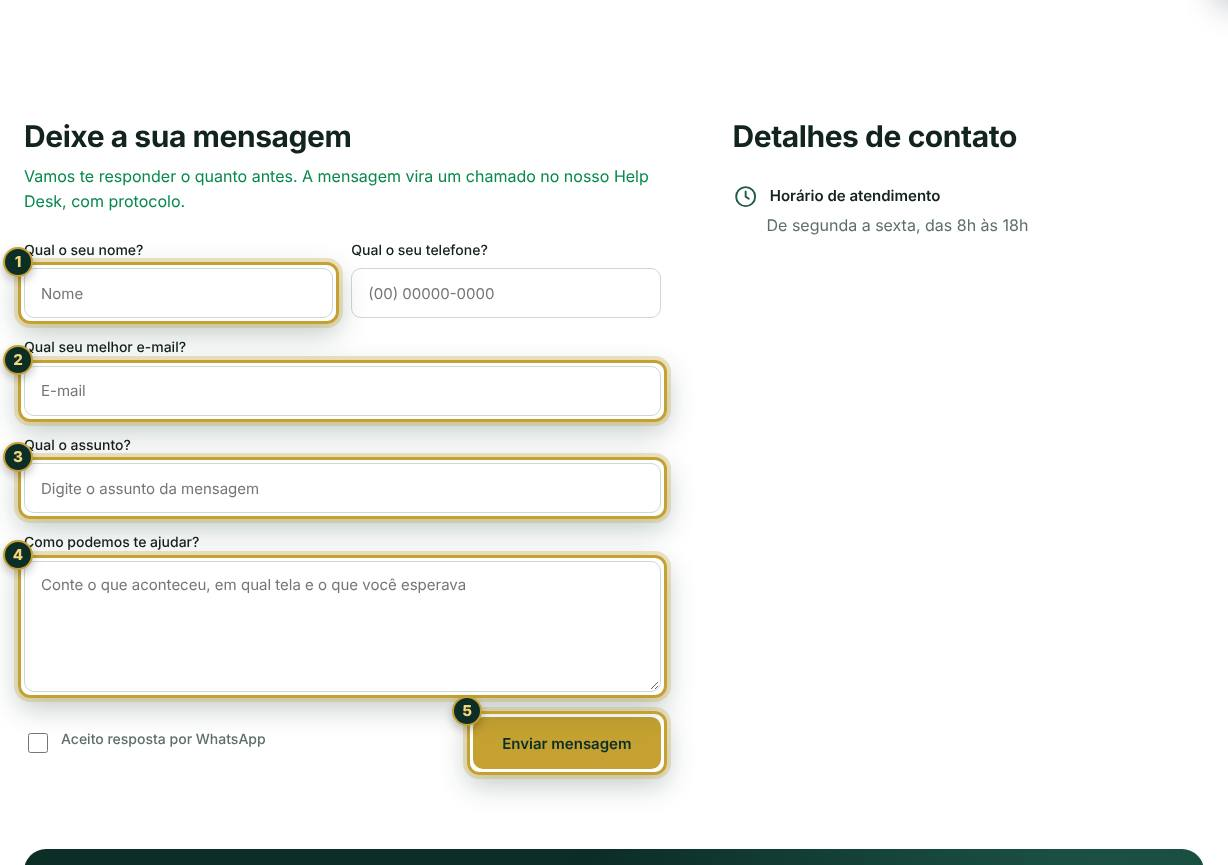
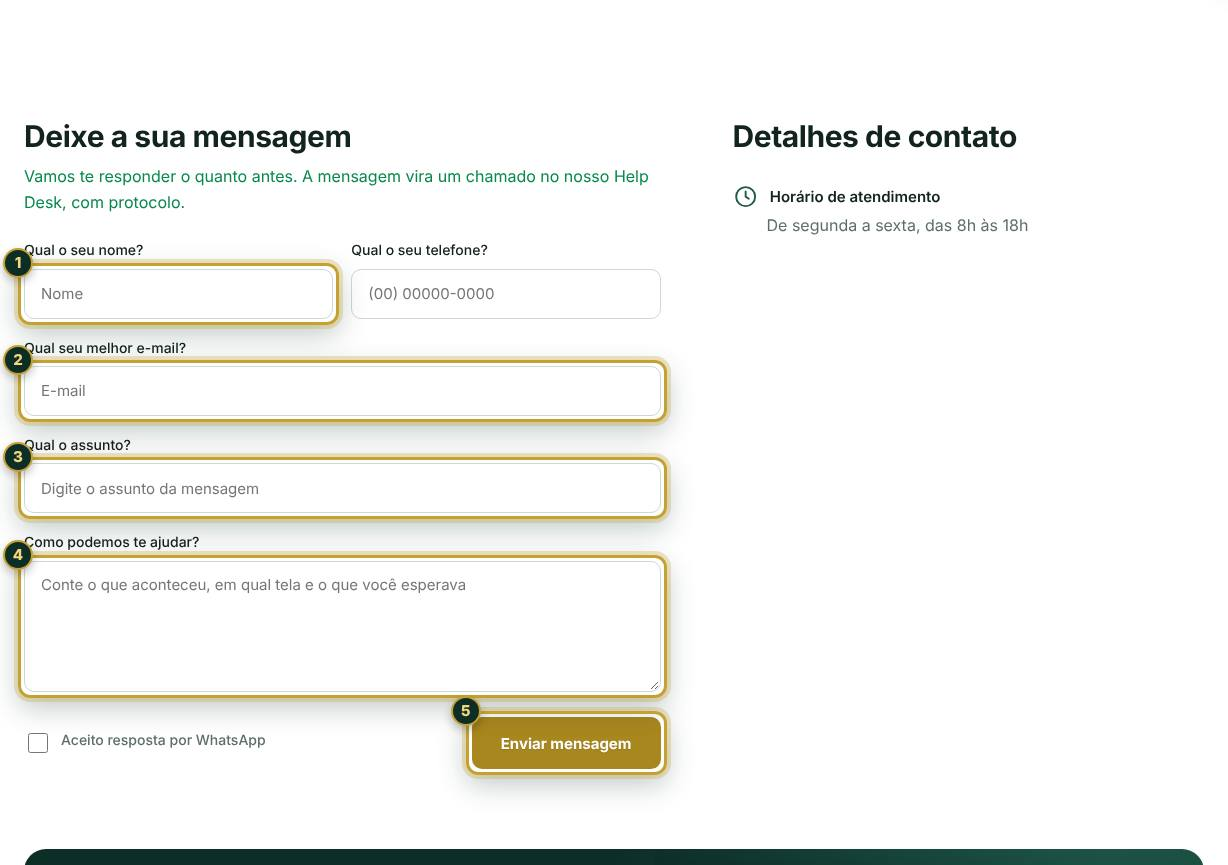
feat(ajuda): ajustes visuais da Central de Ajuda pedidos pelo Djalma (ADR 0141)
- Topo diz que é a central de atendimento da Connect Condomínios.
- Botões dourados com texto branco (dourado mais forte para dar contraste).
- Ícones dos canais sobre o verde claro do fundo; favicon próprio com fundo verde claro.
- "Já é cliente da Connect Condomínios?" e banner com metade da altura, recortando o print.
- Rodapé com links para o site, o app do morador e o Connect ERP.
- Prints da página de ajuda refeitos e print que faltava de Lançamentos patrimoniais.

Claude-Session: https://claude.ai/code/session_0132w422j6DE7V5S8vYYzcqs

diff --git a/container/web/support/v1/assets/support.css b/container/web/support/v1/assets/support.css
@@ -43,8 +43,8 @@ img { max-width: 100%; height: auto; }
 .hc-btn { display: inline-flex; align-items: center; justify-content: center; gap: 8px; min-height: 44px; padding: 0 20px; border: 1px solid transparent; border-radius: 10px; font: 600 15px/1 Inter, system-ui, sans-serif; text-decoration: none; cursor: pointer; transition: background .15s, transform .15s, box-shadow .15s; }
 .hc-btn--dark { background: var(--hc-green); color: #fff; }
 .hc-btn--dark:hover { background: var(--hc-green-2); }
-.hc-btn--gold { background: var(--hc-gold); color: var(--hc-green); }
-.hc-btn--gold:hover { background: #d4b245; box-shadow: 0 8px 20px rgba(197, 161, 49, .35); }
+.hc-btn--gold { background: var(--hc-gold-strong); color: #fff; font-weight: 700; text-shadow: 0 1px 1px rgba(0, 0, 0, .12); }
+.hc-btn--gold:hover { background: var(--hc-gold); box-shadow: 0 8px 20px rgba(197, 161, 49, .35); }
 .hc-btn--lg { min-height: 52px; padding: 0 28px; }
 
 /* Topo */
@@ -78,7 +78,7 @@ img { max-width: 100%; height: auto; }
 .hc-channels { position: relative; z-index: 2; display: grid; grid-template-columns: repeat(auto-fit, minmax(210px, 1fr)); gap: 20px; margin-top: -84px; }
 .hc-channel { display: flex; flex-direction: column; align-items: flex-start; gap: 6px; padding: 26px 24px; background: #fff; border: 1px solid var(--hc-line); border-radius: var(--hc-radius); box-shadow: var(--hc-shadow); text-align: left; text-decoration: none; color: inherit; font: inherit; cursor: pointer; transition: transform .2s, box-shadow .2s, border-color .2s; }
 .hc-channel:hover { transform: translateY(-4px); box-shadow: var(--hc-shadow-lift); border-color: var(--hc-gold); }
-.hc-channel i { display: grid; place-items: center; width: 46px; height: 46px; margin-bottom: 18px; border-radius: 12px; background: var(--hc-gold-soft); color: var(--hc-gold-strong); font-size: 25px; font-style: normal; }
+.hc-channel i { display: grid; place-items: center; width: 46px; height: 46px; margin-bottom: 18px; border-radius: 12px; background: var(--hc-mint); color: var(--hc-gold-strong); font-size: 25px; font-style: normal; }
 .hc-channel strong { font-size: 18px; font-weight: 600; color: var(--hc-green); }
 .hc-channel span { font-size: 14px; color: var(--hc-muted); }
 
@@ -133,13 +133,13 @@ img { max-width: 100%; height: auto; }
 .hc-whats .hc-icon { font-size: 24px; color: var(--hc-brand); }
 
 /* Chamada para o sistema */
-.hc-cta { position: relative; overflow: hidden; display: grid; grid-template-columns: minmax(0, .9fr) minmax(0, 1.1fr); align-items: center; gap: 32px; margin: 8px 0 88px; padding: 48px 0 0 56px; border-radius: 22px; background: radial-gradient(circle at 92% 20%, var(--hc-green-3), transparent 45%), var(--hc-green); color: #fff; }
-.hc-cta__text { padding-bottom: 48px; }
+.hc-cta { position: relative; overflow: hidden; display: grid; grid-template-columns: minmax(0, 1fr) minmax(0, 1fr); align-items: center; gap: 32px; margin: 8px 0 72px; padding: 0 0 0 48px; min-height: 0; height: 260px; border-radius: 22px; background: radial-gradient(circle at 92% 20%, var(--hc-green-3), transparent 45%), var(--hc-green); color: #fff; }
+.hc-cta__text { padding: 28px 0; }
 .hc-cta small { color: var(--hc-gold); }
-.hc-cta h2 { margin: 6px 0 8px; font-size: clamp(26px, 3.4vw, 36px); letter-spacing: -.02em; }
-.hc-cta p { margin: 0 0 24px; color: #c8dbd2; }
-.hc-cta__shot { align-self: end; margin-right: -2px; }
-.hc-cta__shot img { display: block; border-radius: 14px 0 0 0; box-shadow: -18px -10px 40px rgba(0, 0, 0, .25); }
+.hc-cta h2 { margin: 4px 0 6px; font-size: clamp(22px, 2.6vw, 28px); letter-spacing: -.02em; }
+.hc-cta p { margin: 0 0 18px; color: #c8dbd2; font-size: 15px; }
+.hc-cta__shot { align-self: stretch; position: relative; margin-right: -2px; padding-top: 36px; overflow: hidden; }
+.hc-cta__shot img { display: block; width: 100%; height: auto; border-radius: 14px 0 0 0; box-shadow: -18px -10px 40px rgba(0, 0, 0, .25); }
 
 /* Página de assunto, busca e artigo */
 .hc-page { padding: 34px 0 72px; }
@@ -254,7 +254,12 @@ img { max-width: 100%; height: auto; }
 .hc-footer__arcs { display: block; width: 260px; color: var(--hc-gold); opacity: .8; }
 .hc-footer__bottom { display: flex; flex-wrap: wrap; align-items: center; gap: 18px 28px; margin-top: -2px; padding-top: 24px; border-top: 1px solid var(--hc-gold); font-size: 13px; }
 .hc-footer__bottom img { width: 120px; height: 36px; object-fit: contain; object-position: left; display: block; }
-.hc-footer__bottom nav { display: flex; gap: 18px; margin-right: auto; }
+.hc-footer__bottom .hc-footer__links { display: flex; flex-wrap: wrap; gap: 10px 26px; margin-left: auto; font-size: 14px; font-weight: 500; }
+.hc-footer__links a { display: inline-flex; align-items: center; gap: 8px; color: #fff; }
+.hc-footer__links .hc-icon { color: var(--hc-gold); font-size: 18px; }
+.hc-footer__links a:hover { color: var(--hc-gold); }
+.hc-footer__legal { display: flex; flex-wrap: wrap; align-items: center; gap: 12px 28px; margin-top: 18px; font-size: 13px; }
+.hc-footer__legal nav { display: flex; gap: 18px; margin-right: auto; }
 .hc-footer a { text-decoration: none; }
 .hc-footer a:hover { color: #fff; }
 .hc-totop { display: inline-flex; align-items: center; gap: 8px; }
@@ -265,8 +270,8 @@ img { max-width: 100%; height: auto; }
   .hc-top__nav { display: none; }
   .hc-top__bar { justify-content: space-between; }
   .hc-contact { grid-template-columns: 1fr; gap: 48px; }
-  .hc-cta { grid-template-columns: 1fr; padding: 40px 28px 0; }
-  .hc-cta__shot { margin-right: -28px; }
+  .hc-cta { grid-template-columns: 1fr; height: auto; padding: 28px 28px 0; gap: 0; }
+  .hc-cta__shot { margin-right: -28px; padding-top: 0; max-height: 150px; }
   .hc-layout { grid-template-columns: 1fr; }
   .hc-side { position: static; padding-left: 0; border-left: 0; }
   .hc-cover { grid-template-columns: 1fr; }

diff --git a/container/web/support/v1/layouts/theme.php b/container/web/support/v1/layouts/theme.php
@@ -8,6 +8,7 @@ $contact = \Source\Services\Help\SupportContact::data();
 $logo = url('/container/web/default/v1/assets/images/logo-connect-condominios.svg');
 $logoLight = url('/container/web/default/v1/assets/svg/logo-connect-footer.svg');
 $cssFile = __DIR__ . '/../assets/support.css';
+$residentsUrl = \Source\Services\Environments::url('residents', '/app');
 ?>
 <!doctype html>
 <html lang="pt-BR">
@@ -15,7 +16,9 @@ $cssFile = __DIR__ . '/../assets/support.css';
     <meta charset="utf-8">
     <meta name="viewport" content="width=device-width,initial-scale=1">
     <?= $head ?>
-    <link rel="icon" href="<?= site_favicon_url() ?>">
+    <link rel="icon" type="image/svg+xml" href="<?= url('/container/web/support/v1/assets/images/favicon-ajuda.svg') ?>">
+    <link rel="icon" type="image/png" sizes="96x96" href="<?= url('/container/web/support/v1/assets/images/favicon-ajuda.png') ?>">
+    <link rel="apple-touch-icon" href="<?= url('/container/web/support/v1/assets/images/favicon-ajuda.png') ?>">
     <link rel="preconnect" href="https://fonts.googleapis.com">
     <link rel="preconnect" href="https://fonts.gstatic.com" crossorigin>
     <link rel="stylesheet" href="https://fonts.googleapis.com/css2?family=Inter:wght@400;500;600;700;800&display=swap">
@@ -69,6 +72,13 @@ $cssFile = __DIR__ . '/../assets/support.css';
         <svg class="hc-footer__arcs" viewBox="0 0 260 60" aria-hidden="true"><path d="M2 58V40a28 28 0 0 1 56 0M58 58V30a30 30 0 0 1 60 0v28M118 58a32 32 0 0 1 64 0M182 58a36 36 0 0 1 72-4" fill="none" stroke="currentColor" stroke-width="2"/></svg>
         <div class="hc-footer__bottom">
             <a href="<?= url('/') ?>"><img src="<?= $logoLight ?>" alt="Connect Condomínios" width="120" height="36"></a>
+            <nav class="hc-footer__links" aria-label="Outros acessos">
+                <a href="<?= url('/') ?>"><?= \Source\Services\Help\Icons::svg('globe-outline') ?>Voltar para o site</a>
+                <a href="<?= htmlspecialchars($residentsUrl) ?>"><?= \Source\Services\Help\Icons::svg('home-outline') ?>App do morador</a>
+                <a href="<?= htmlspecialchars($contact['system_url']) ?>"><?= \Source\Services\Help\Icons::svg('log-in-outline') ?>Connect ERP</a>
+            </nav>
+        </div>
+        <div class="hc-footer__legal">
             <span>© <?= date('Y') ?> Connect Condomínios. Todos os direitos reservados.</span>
             <nav><a href="<?= url('/politica-de-privacidade') ?>">Privacidade</a><a href="<?= url('/termos-de-uso') ?>">Termos de uso</a></nav>
             <a class="hc-totop" href="#conteudo">Voltar ao topo <?= \Source\Services\Help\Icons::svg('arrow-up-outline') ?></a>

diff --git a/container/web/support/v1/pages/home.php b/container/web/support/v1/pages/home.php
@@ -10,7 +10,7 @@ $contact = \Source\Services\Help\SupportContact::data();
     <div class="hc-wrap hc-hero__inner">
         <span class="hc-pill"><?= \Source\Services\Help\Icons::svg('headset-outline') ?>Fale com a gente</span>
         <h1 id="hc-hero-title">Como podemos te ajudar hoje?</h1>
-        <p>Tutoriais passo a passo com as telas do Connect ERP marcadas, e atendimento de verdade quando você precisar.</p>
+        <p>Esta é a central de atendimento da Connect Condomínios: tutoriais passo a passo com as telas do Connect ERP marcadas, e atendimento de verdade quando você precisar.</p>
         <form class="hc-search" action="<?= url('/suporte/buscar') ?>" method="get" role="search">
             <?= \Source\Services\Help\Icons::svg('search-outline') ?>
             <input name="q" type="search" placeholder="Pesquise uma dúvida: boleto, cadastrar unidade, acordo…" minlength="2" required aria-label="Pesquisar na Central de Ajuda">
@@ -114,7 +114,7 @@ $contact = \Source\Services\Help\SupportContact::data();
 <section class="hc-wrap">
     <div class="hc-cta">
         <div class="hc-cta__text">
-            <small>Já é cliente da Connect?</small>
+            <small>Já é cliente da Connect Condomínios?</small>
             <h2>Acesse o Connect ERP</h2>
             <p>Condomínios, cobrança, prestação de contas e atendimento em um só lugar.</p>
             <a class="hc-btn hc-btn--gold" href="<?= htmlspecialchars($contact['system_url']) ?>">Entrar no sistema <?= \Source\Services\Help\Icons::svg('arrow-forward-outline') ?></a>

diff --git a/source/Services/Help/Icons.php b/source/Services/Help/Icons.php
@@ -13,6 +13,7 @@ namespace Source\Services\Help;
 final class Icons
 {
     private const PATHS = [
+        'globe' => '<circle cx="12" cy="12" r="9"/><path d="M3 12h18M12 3a14 14 0 0 1 0 18M12 3a14 14 0 0 0 0 18"/>',
         'home' => '<path d="M3 10.5 12 3l9 7.5"/><path d="M5 9.5V21h14V9.5"/><path d="M10 21v-6h4v6"/>',
         'log-in' => '<path d="M15 4h4a2 2 0 0 1 2 2v12a2 2 0 0 1-2 2h-4"/><path d="M10 16l4-4-4-4M14 12H3"/>',
         'search' => '<circle cx="11" cy="11" r="7"/><path d="m20 20-3.5-3.5"/>',
